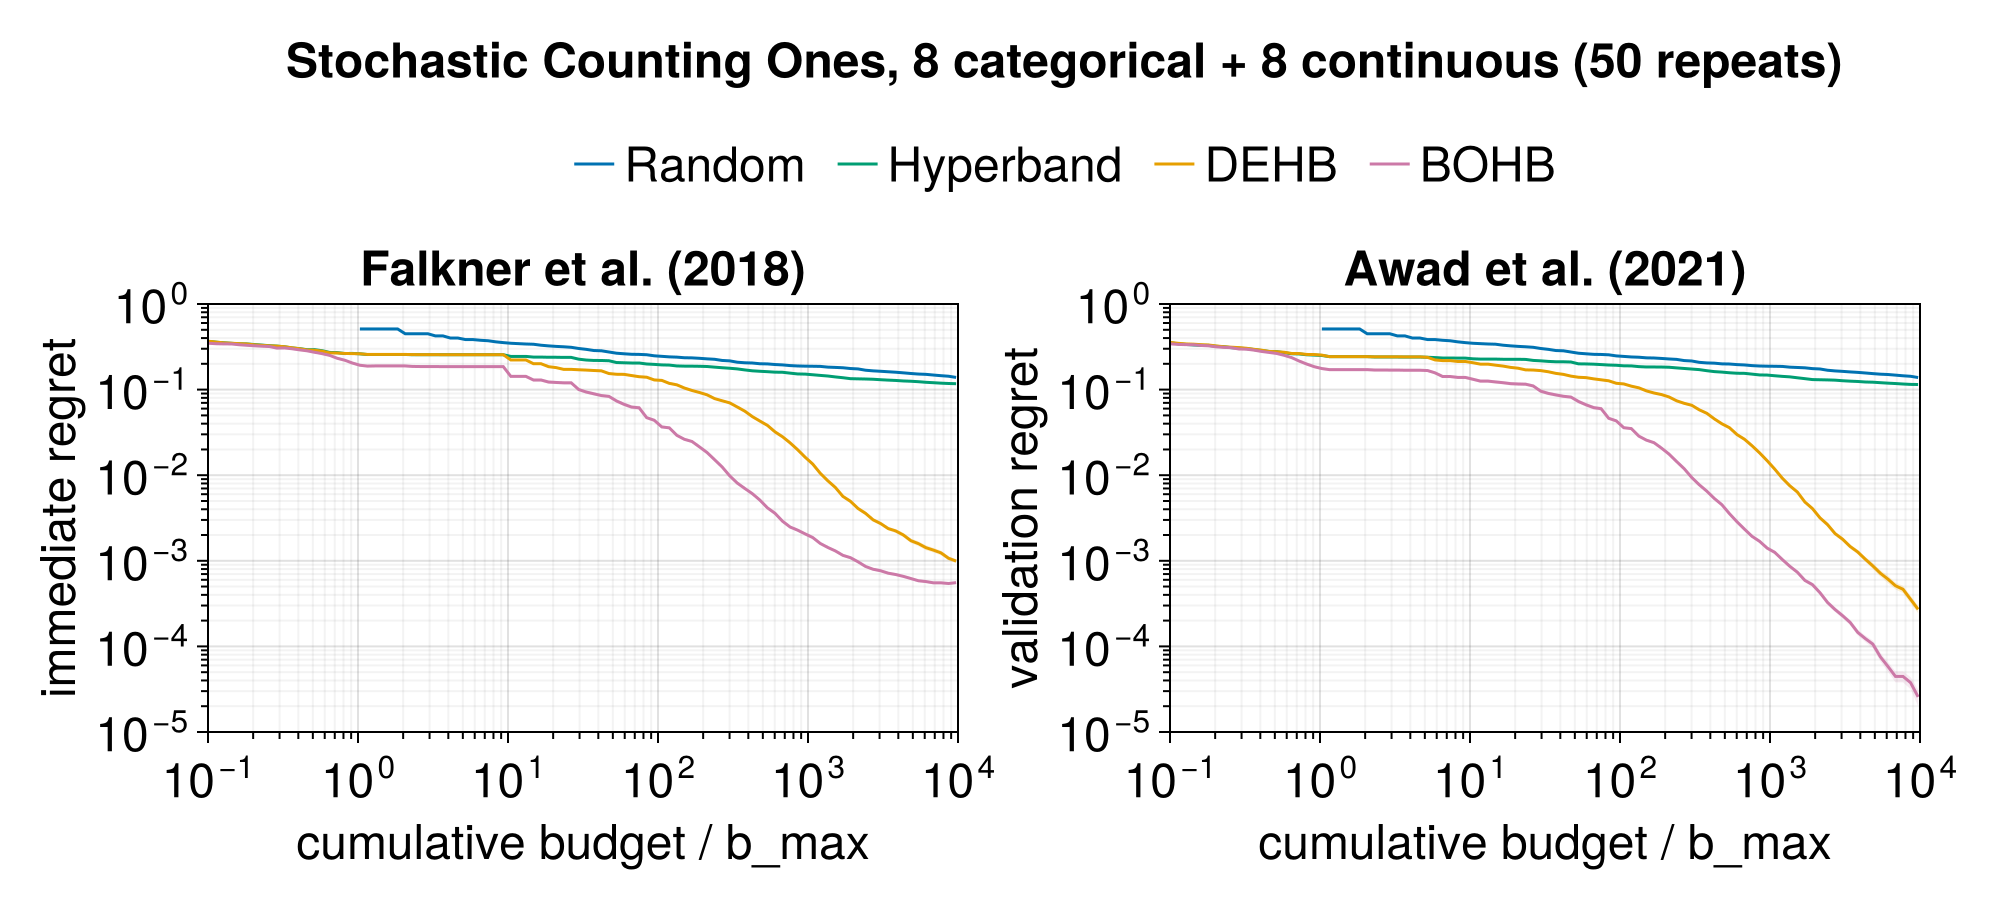
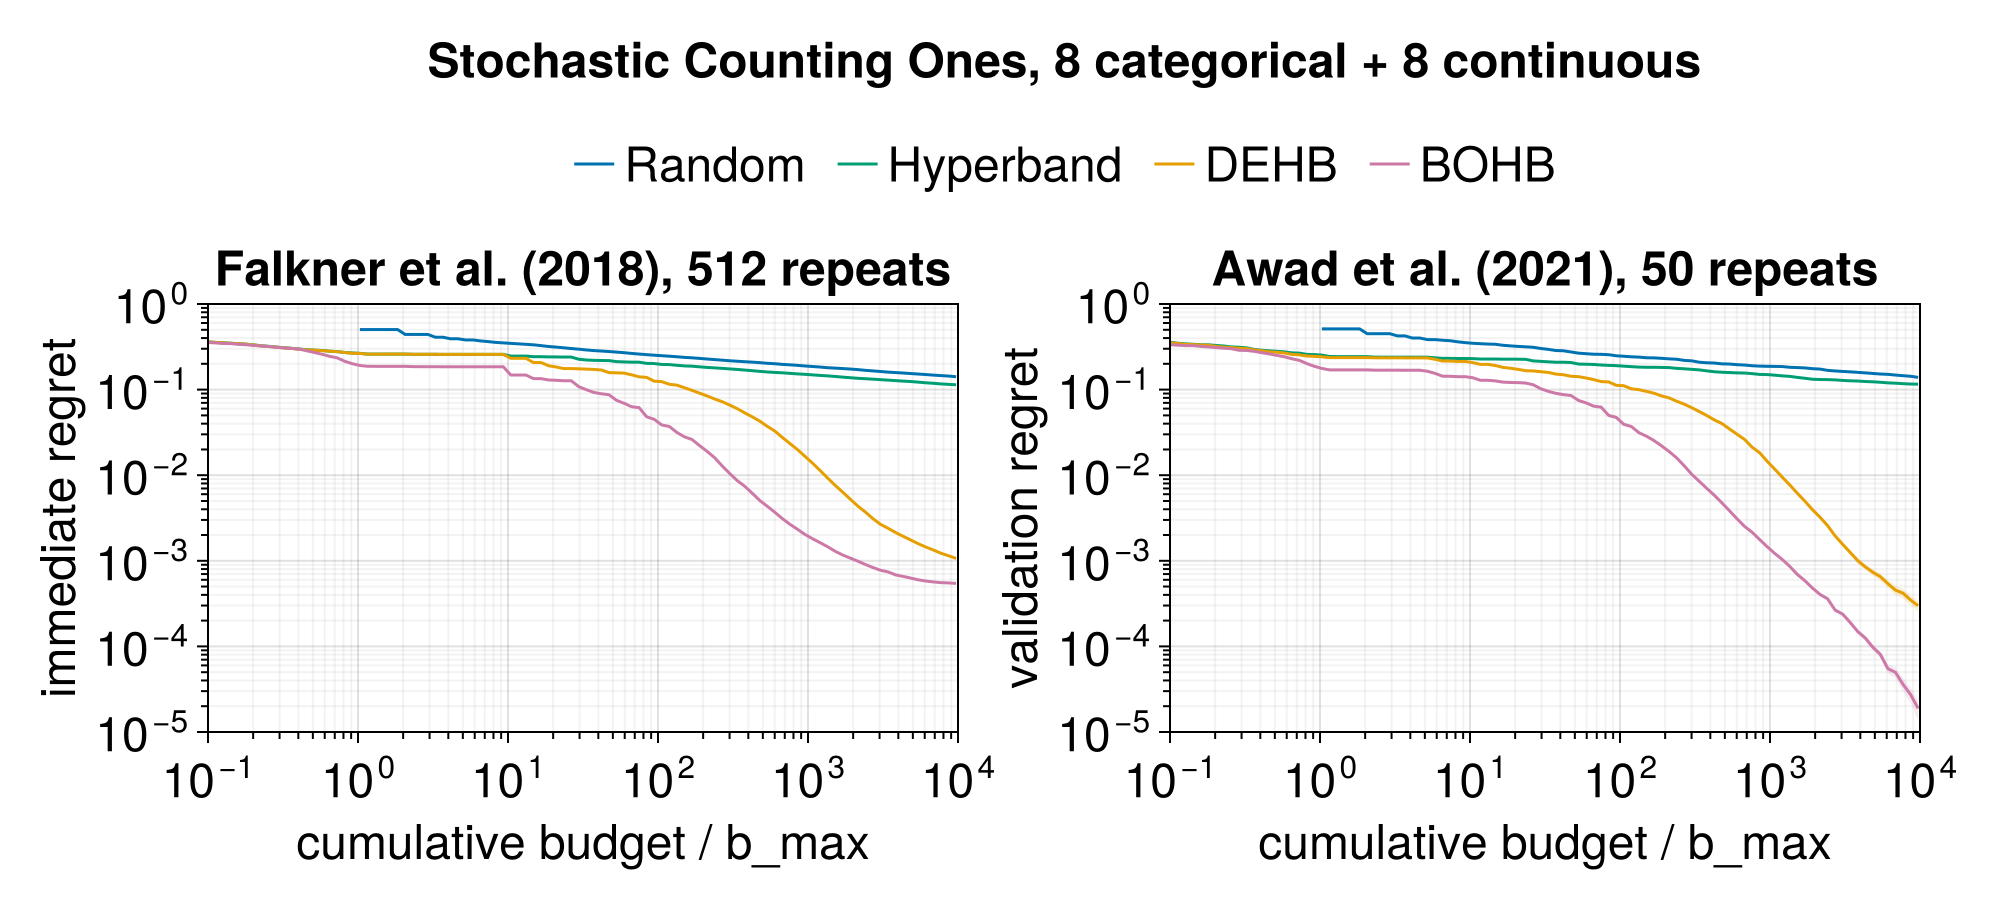
Run the NN benchmark at full scale only, put Slurm logs in logs/ folders, re-plot counting ones
- The NN benchmark no longer has a test scale. The `BIGHOPS_BENCHMARK_DEPLOY` switch, a leftover from the GitHub Actions workflow, made full scale opt-in, so the first cluster run used `r_max=27` and 2 repeats. NN now always runs with `r_min=5`, `R=1215`, 6 epochs per resource unit and 50 repeats by default (`BIGHOPS_BENCHMARK_REPEATS` still overrides it), and its saved metadata drops the `deploy` field.
- Each benchmark's Slurm logs go to `results/<benchmark>/logs/` instead of sitting next to the result folders; `submit.jl` creates that folder before submitting, since Slurm does not.
- The counting ones figures are re-plotted from the cluster run: 512 repeats per sampler, with the Falkner et al. (2018) panel using all of them and the Awad et al. (2021) panel repeats 1–50. The curves match the earlier 50-repeat figures, only smoother.

diff --git a/benchmarks/README.md b/benchmarks/README.md
@@ -25,11 +25,10 @@ julia --project=. submit.jl all             # delete all results, rerun everythi
 
 `submit.jl` installs and precompiles the environment before submitting. The jobs inherit the environment of the shell they are submitted from, so set these variables before calling it:
 
-- `BIGHOPS_BENCHMARK_DEPLOY=true`: run the NN benchmark at full scale; without it, it runs a small test version.
-- `BIGHOPS_BENCHMARK_REPEATS`: NN repeats, 50 by default at full scale.
+- `BIGHOPS_BENCHMARK_REPEATS`: NN repeats, 50 by default.
 - `BIGHOPS_COUNTING_ONES_REPEATS`: counting ones repeats, 512 by default.
 
-Each benchmark's Slurm settings (CPUs, time limit, memory) are in its sbatch files. A counting ones job runs 4 repeats, an NN job one. Each repeat is saved to `results/<benchmark>/<setting>/repeat_<k>.jld2` when it finishes, and the job's log to `results/<benchmark>/`.
+Each benchmark's Slurm settings (CPUs, time limit, memory) are in its sbatch files. A counting ones job runs 4 repeats, an NN job one. Each repeat is saved to `results/<benchmark>/<setting>/repeat_<k>.jld2` when it finishes, and the job's log to `results/<benchmark>/logs/`.
 
 A single job can also be run by hand, e.g. the first counting ones job:
 
